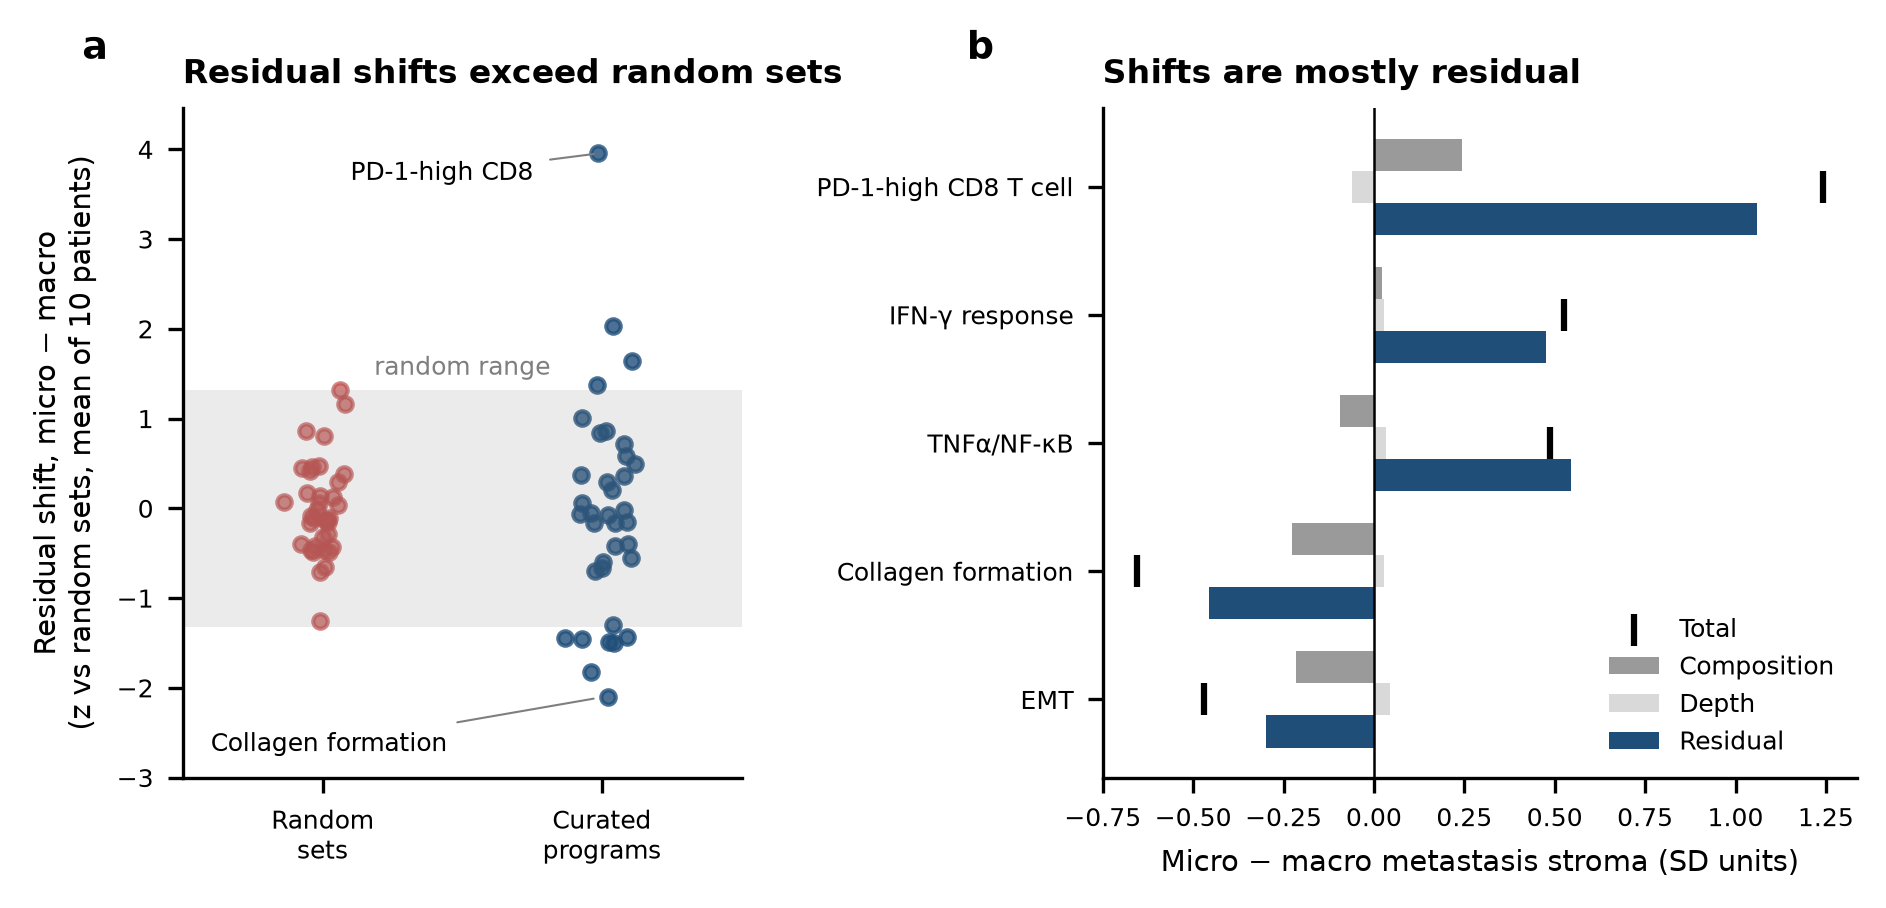
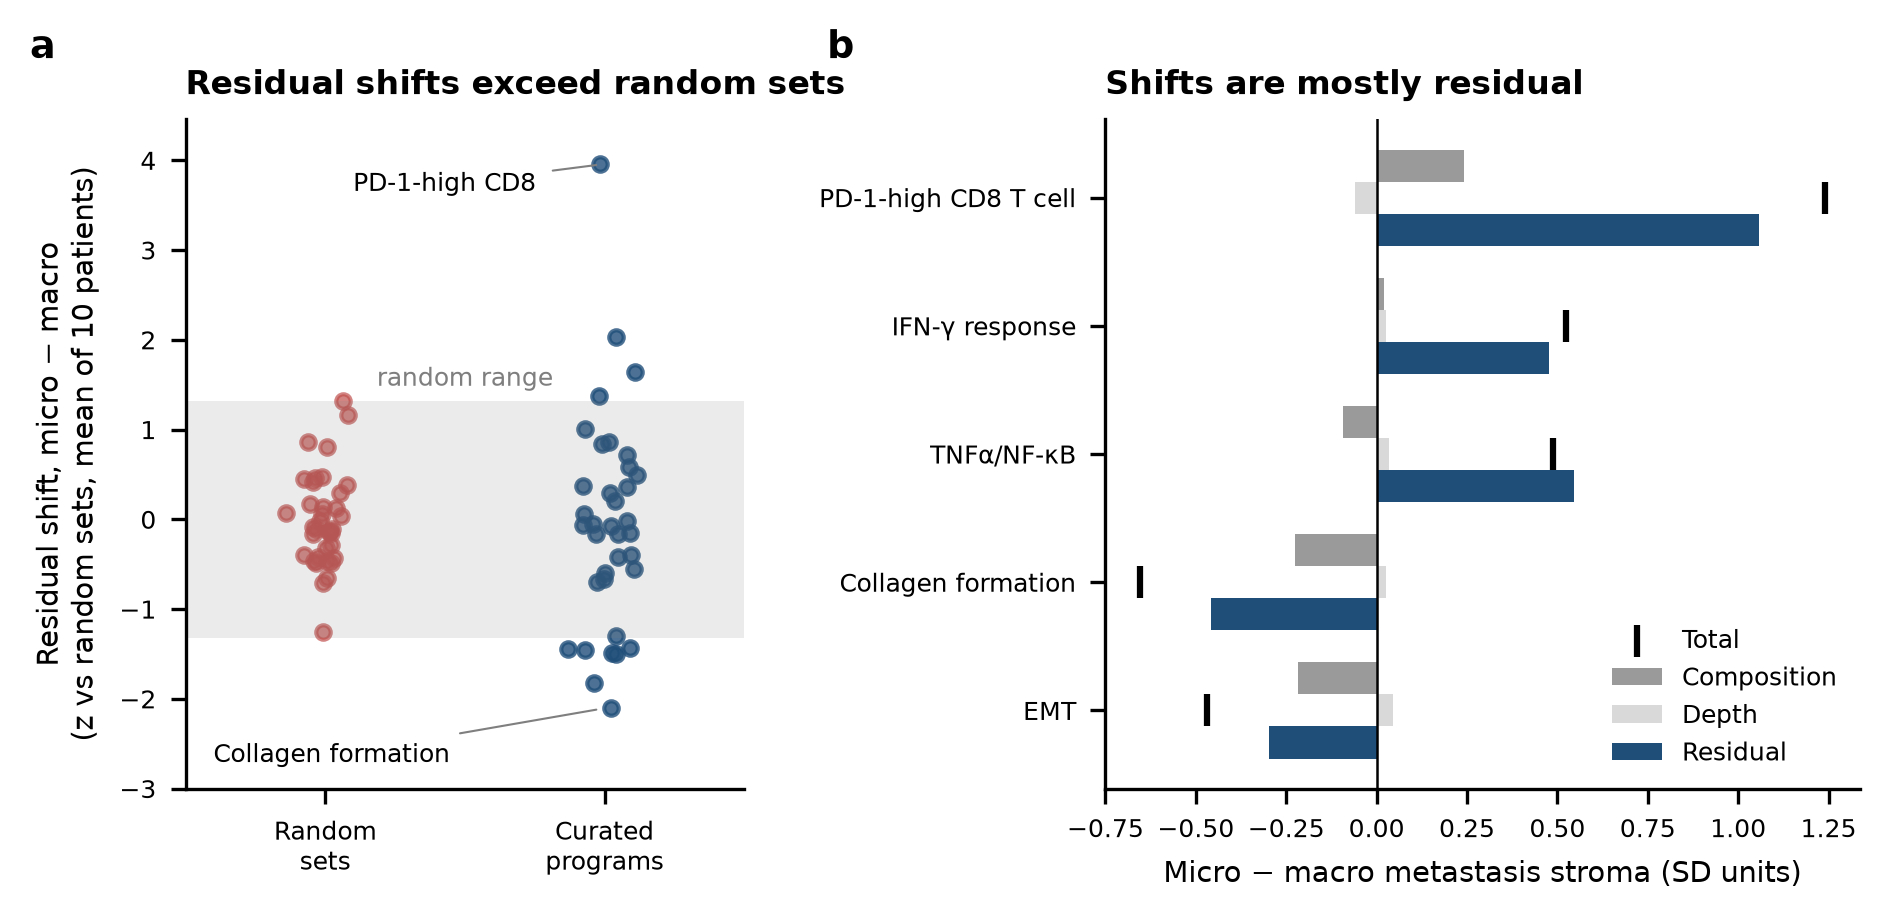
Figures: align panel letters in all stage-3 figures
Letters are placed on one row at the left edge of each panel (axis label included),
top-aligned with the panel titles; panel a of fig_proposal_numbers widened.
Values unchanged.

diff --git a/scripts/07_analysis/figures_stage3.py b/scripts/07_analysis/figures_stage3.py
@@ -11,7 +11,19 @@ BLUE, GREY, RED, META = '#1f4e79', '#9a9a9a', '#c0504d', '#7f7f7f'
 LEAK = {'COLONMAP_8270_AS', 'TENX_immune_P1'}
 
 
-def letter(ax, s): ax.text(-0.18, 1.06, s, transform=ax.transAxes, fontsize=9, fontweight='bold', va='bottom')
+_LETTERS = []
+
+
+def letter(ax, s): _LETTERS.append((ax, s))
+
+
+def place_letters(fig):
+    """Panel letters on one row, each at the left edge of its panel (axis label included), top-aligned with the titles."""
+    fig.canvas.draw(); r = fig.canvas.get_renderer(); inv = fig.transFigure.inverted()
+    items = [(s, ax.get_tightbbox(r).transformed(inv)) for ax, s in _LETTERS if ax.figure is fig]
+    top = max(b.y1 for _, b in items)
+    for s, b in items: fig.text(b.x0, top, s, fontsize=9, fontweight='bold', va='bottom', ha='left')
+    _LETTERS[:] = [(a, s) for a, s in _LETTERS if a.figure is not fig]
 
 
 def strip(ax, data, labels, colors, seed=0):
@@ -44,7 +56,7 @@ cols2 = [(U, 'resid_direct_implicit', 'Direct\n(implicit)'), (U, 'resid_twostage
          (Dj, 'resid_twostage', 'Gene-\ndisjoint'), (Rn, 'resid_twostage', 'Random\nsets')]
 strip(axs[2], [d[c].values for d, c, _ in cols2], [lab for *_, lab in cols2], [GREY, BLUE, BLUE, BLUE, RED])
 axs[2].set_ylabel('Residual accuracy (depth-adj. r)'); axs[2].set_title('Residual beyond random sets', loc='left'); letter(axs[2], 'c')
-fig.savefig(f'{OUT}/fig_headroom_composition.png', bbox_inches='tight'); plt.close(fig)
+place_letters(fig); fig.savefig(f'{OUT}/fig_headroom_composition.png', bbox_inches='tight'); plt.close(fig)
 print('fig1 medians', {c: round(U[c].median(), 3) for c, _ in cols}, {lab.replace('\n', ' '): round(np.median(d[c]), 3) for d, c, lab in cols2})
 
 # Figure 2: MDACC liver metastasis stroma, micro- vs macrometastasis (patient level, 10 patients with both regions)
@@ -74,7 +86,7 @@ ax.scatter(L['y'].values, y, marker='|', s=60, color='black', zorder=3, label='T
 ax.axvline(0, color='black', lw=0.6); ax.set_yticks(y); ax.set_yticklabels([short[p] for p in progs])
 ax.set_xlabel('Micro − macro metastasis stroma (SD units)'); ax.set_title('Shifts are mostly residual', loc='left')
 ax.legend(frameon=False, fontsize=6, loc='lower right'); letter(ax, 'b')
-fig.savefig(f'{OUT}/fig_mdacc_micro_macro.png', bbox_inches='tight'); plt.close(fig)
+place_letters(fig); fig.savefig(f'{OUT}/fig_mdacc_micro_macro.png', bbox_inches='tight'); plt.close(fig)
 print('fig2 components\n', L.round(2).to_string())
 
 
@@ -110,10 +122,10 @@ gi = per_group('ssgsea', 'pearson').index
 raw = (per_group('ssgsea', 'pearson')[gi], rand_ss('pearson')[gi])
 dss = (per_group('ssgsea', 'pearson_depthres')[gi], rand_ss('pearson_depthres')[gi])
 dul = (per_group('ulm', 'pearson_depthres')[gi], per_group('rand0ulm', 'pearson_depthres')[gi])
-fig, axs = plt.subplots(1, 3, figsize=(8.2, 2.9), gridspec_kw=dict(width_ratios=[0.6, 1.1, 1.1], wspace=0.45))
+fig, axs = plt.subplots(1, 3, figsize=(8.6, 2.9), gridspec_kw=dict(width_ratios=[0.8, 1.1, 1.1], wspace=0.5))
 for ax, lim in zip(axs, [(-0.1, 0.85), (-0.1, 0.7), (-0.05, 0.6)]): ax.set_ylim(*lim)
 paired(axs[0], [raw], ['ssGSEA'])
-axs[0].set_ylabel('Held-out r (mean per patient group)'); axs[0].set_title('Raw r: random sets close', loc='left'); letter(axs[0], 'a')
+axs[0].set_ylabel('Held-out r (mean per patient group)'); axs[0].set_title('Raw: random sets close', loc='left'); letter(axs[0], 'a')
 paired(axs[1], [dss, dul], ['ssGSEA', 'ULM'])
 axs[1].set_ylabel('Depth-adjusted r'); axs[1].set_title('Depth-adjusted: programs separate', loc='left'); letter(axs[1], 'b')
 d_ = U['total_direct'], U['total_twostage']; r_ = U['resid_twostage'], Rn['resid_twostage'].reindex(U.index)
@@ -128,7 +140,7 @@ ax.set_xlim(-0.75, 3.55); ax.set_xticks([0, 0.8, 2.4]); ax.set_xticklabels(['Dir
 ax.set_ylabel('Depth-adjusted r (CRC-only training)'); ax.set_title('Composition-aware model', loc='left'); letter(ax, 'c')
 h = [plt.Line2D([], [], marker='o', ls='', color=BLUE, ms=4, label='curated programs'), plt.Line2D([], [], marker='o', ls='', color=GREY, ms=4, label='size-matched random sets')]
 fig.legend(handles=h, loc='upper center', ncol=2, frameon=False, fontsize=6.5, bbox_to_anchor=(0.5, 1.07))
-fig.savefig(f'{OUT}/fig_proposal_numbers.png', bbox_inches='tight'); plt.close(fig)
+place_letters(fig); fig.savefig(f'{OUT}/fig_proposal_numbers.png', bbox_inches='tight'); plt.close(fig)
 print('fig3 means', {k: (round(a.mean(), 3), round(b.mean(), 3)) for k, (a, b) in dict(raw=raw, depth_ssgsea=dss, depth_ulm=dul, direct_vs_twostage=d_, residual=r_).items()},
       'ULM - ssGSEA depth-adj', round((dul[0] - dss[0]).mean(), 3), f'{int((dul[0] > dss[0]).sum())}/16')
 
@@ -159,5 +171,5 @@ ax.scatter(C.total, C.resid_known, s=14, color=BLUE, label='true fractions', zor
 m = max(C.total.max(), C.resid_known.max()) * 1.08; ax.plot([0, m], [0, m], color=META, lw=0.8, ls='--')
 ax.set_xlabel('Planted shift (SD)'); ax.set_ylabel('Recovered residual (SD)'); ax.legend(frameon=False, fontsize=5.5, loc='upper left')
 ax.set_title('Planted state shifts recovered', loc='left'); letter(ax, 'c')
-fig.savefig(f'{OUT}/fig_bm_heldout_controls.png', bbox_inches='tight'); plt.close(fig)
+place_letters(fig); fig.savefig(f'{OUT}/fig_bm_heldout_controls.png', bbox_inches='tight'); plt.close(fig)
 print('fig4 pooled FPR', P_.FPR.round(3).to_dict(), 'recovered/planted', (C.resid_known / C.total).round(2).agg(['min', 'max']).tolist())
